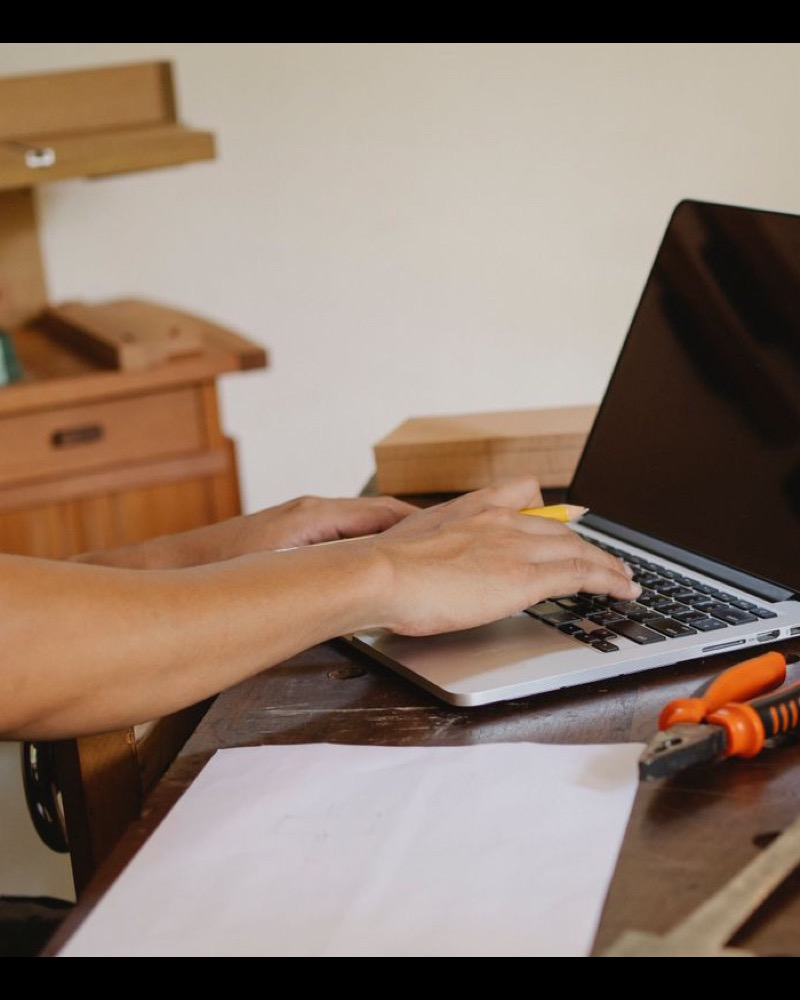
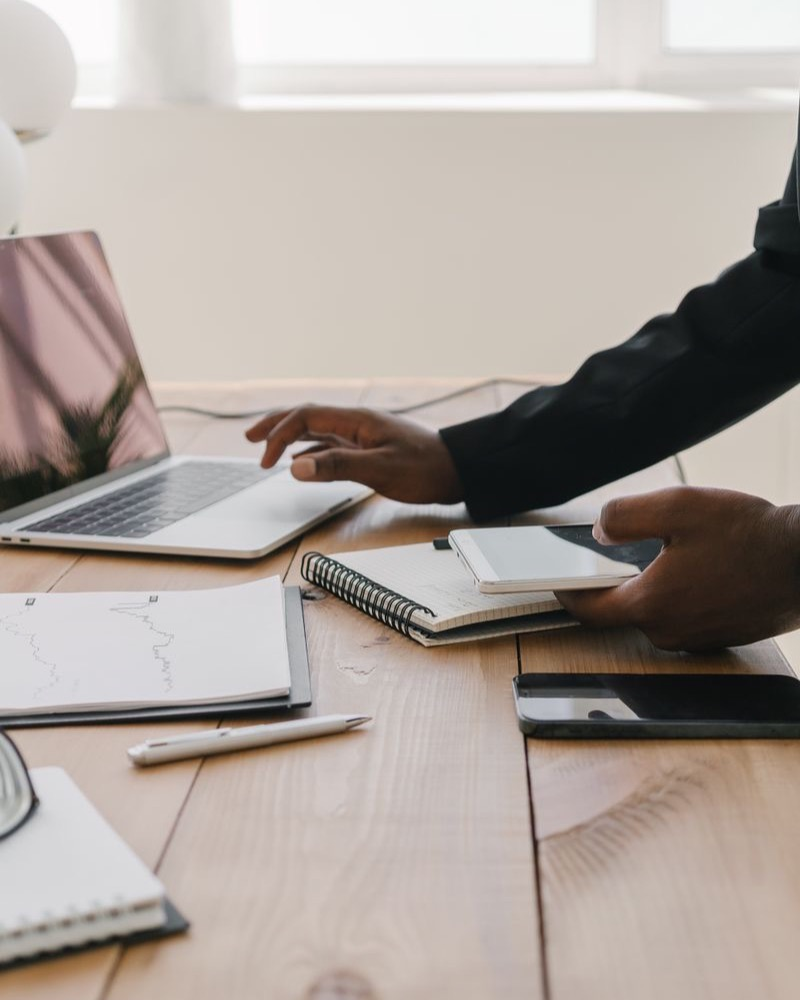
Rework page images: no faces, smaller complementary images
- Odoo: the full-width strip becomes a smaller image beside the
  "Ein System" text (new .textmedia layout); image swapped to the
  craftsman-at-laptop shot
- Homepage values block now shows the desk-with-reports shot
  (swapped with Odoo per request)
- Digitalisierung hero no longer shows a person: replaced with the
  code-editor-and-coffee image; the full-width code strip is removed
All remaining images avoid identifiable faces. D&A hero unchanged.

diff --git a/web/templates/v2/odoo.html b/web/templates/v2/odoo.html
@@ -28,17 +28,14 @@
   </div>
 </section>
 
+{# Text-Bild-Block: Bild ergänzt den Text (lizenzfrei, Pexels: odoo-atmo.jpg = pexels.com/photo/7679173) #}
 <section class="sec">
-  <div class="wrap split reveal">
-    <h2>{% trans "Ein System für den ganzen Betrieb" %}</h2>
-    <p>{% blocktrans trimmed %}Ich führe bei Ihnen Odoo ein – die Geschäftssoftware, mit der weltweit Millionen von Betrieben arbeiten, vom Zweipersonen-Atelier bis zum Produktionsbetrieb. Verkauf, Einkauf, Lager, Projekte, Rechnungen und Buchhaltung greifen ineinander: einmal erfassen, überall verfügbar.{% endblocktrans %}</p>
-  </div>
-</section>
-
-{# Atmosphärebild (lizenzfrei, Pexels): odoo-atmo.jpg = pexels.com/photo/7679173 #}
-<section class="sec">
-  <div class="wrap">
-    <figure class="photostrip reveal"><img src="{% static 'img/atmo/odoo-atmo.jpg' %}" width="1600" height="800" loading="lazy" decoding="async" alt="{% trans 'Arbeiten am Schreibtisch mit Laptop, Notizen und Auswertungen' %}"></figure>
+  <div class="wrap textmedia reveal">
+    <div class="tm-text">
+      <h2>{% trans "Ein System für den ganzen Betrieb" %}</h2>
+      <p>{% blocktrans trimmed %}Ich führe bei Ihnen Odoo ein – die Geschäftssoftware, mit der weltweit Millionen von Betrieben arbeiten, vom Zweipersonen-Atelier bis zum Produktionsbetrieb. Verkauf, Einkauf, Lager, Projekte, Rechnungen und Buchhaltung greifen ineinander: einmal erfassen, überall verfügbar.{% endblocktrans %}</p>
+    </div>
+    <figure class="tm-photo"><img src="{% static 'img/atmo/odoo-atmo.jpg' %}" width="1200" height="800" loading="lazy" decoding="async" alt="{% trans 'Handwerker arbeitet am Laptop in seiner Werkstatt' %}"></figure>
   </div>
 </section>
 

diff --git a/web/static/css/v2.css b/web/static/css/v2.css
@@ -241,6 +241,11 @@ a:hover { color: #0A0A0A; }
 .sec h2 { font-size: 46px; line-height: 1.1; letter-spacing: -0.035em; max-width: 720px; }
 .idx { font-size: 13px; font-weight: 600; letter-spacing: .08em; color: #6B6B6B; font-variant-numeric: tabular-nums; }
 .split { display: grid; grid-template-columns: minmax(0, .85fr) minmax(0, 1.15fr); gap: 72px; align-items: start; }
+.textmedia { display: grid; grid-template-columns: minmax(0, 1fr) minmax(0, 1fr); gap: 56px; align-items: center; }
+.textmedia .tm-text h2 { margin-bottom: 20px; }
+.textmedia .tm-text p { margin: 0; color: #4F4F4F; font-size: 18px; }
+.textmedia .tm-photo { margin: 0; border-radius: 24px; overflow: hidden; aspect-ratio: 3 / 2; background: #F5F5F2; }
+.textmedia .tm-photo img { width: 100%; height: 100%; object-fit: cover; display: block; }
 .sec .split p, .sec > .wrap > p { margin: 0; color: #4F4F4F; font-size: 18px; }
 
 /* ---------- Angebots-Karten ---------- */
@@ -562,7 +567,7 @@ a:hover { color: #0A0A0A; }
   .sec h2 { font-size: 34px; }
   .sec-head { flex-direction: column; align-items: flex-start; margin-bottom: 40px; gap: 12px; }
   .cards { grid-template-columns: minmax(0, 1fr); }
-  .split, .about { grid-template-columns: minmax(0, 1fr); gap: 40px; }
+  .split, .about, .textmedia { grid-template-columns: minmax(0, 1fr); gap: 40px; }
   .gets { grid-template-columns: minmax(0, 1fr); }
   .steps { grid-template-columns: minmax(0, 1fr); gap: 40px; padding-top: 0; padding-left: 44px; }
   .track { top: 8px; bottom: 8px; left: 7px; right: auto; width: 2px; height: auto; }

diff --git a/web/templates/v2/digitalisierung.html b/web/templates/v2/digitalisierung.html
@@ -15,15 +15,8 @@
       <p>{% blocktrans trimmed %}Der heikelste Moment jeder Digitalisierung ist der Umzug: Kundendaten, Artikel, Belege und Historie stecken im alten System – und sollen vollständig und korrekt im neuen ankommen. Genau das ist meine Kernkompetenz.{% endblocktrans %}</p>
     </div>
     <div class="hero-media">
-      <img src="{% static 'img/photos/dig-hero.jpg' %}" width="1200" height="800" decoding="async" alt="{% trans 'Betriebsinhaber arbeitet konzentriert am Laptop in seiner Werkstatt' %}">
+      <img src="{% static 'img/photos/dig-hero.jpg' %}" width="1200" height="800" decoding="async" alt="{% trans 'Laptop mit Code-Editor und Kaffee im warmen Licht' %}">
     </div>
-  </div>
-</section>
-
-{# Atmosphärebild (lizenzfrei, Pexels): dig-atmo.jpg = pexels.com/photo/34803969 #}
-<section class="sec">
-  <div class="wrap">
-    <figure class="photostrip reveal"><img src="{% static 'img/atmo/dig-atmo.jpg' %}" width="1600" height="800" loading="lazy" decoding="async" alt="{% trans 'Laptop mit Code-Editor und Kaffee im warmen Licht' %}"></figure>
   </div>
 </section>
 

diff --git a/web/templates/v2/home.html b/web/templates/v2/home.html
@@ -104,7 +104,7 @@
 <section class="sec">
   <div class="wrap">
     <div class="trust has-photo reveal">
-      <figure class="tphoto"><img src="{% static 'img/photos/home-trust.jpg' %}" width="800" height="1000" loading="lazy" decoding="async" alt="{% trans 'Handwerker arbeitet am Laptop in seiner Werkstatt' %}"></figure>
+      <figure class="tphoto"><img src="{% static 'img/photos/home-trust.jpg' %}" width="800" height="1000" loading="lazy" decoding="async" alt="{% trans 'Arbeiten am Schreibtisch mit Laptop, Notizen und Auswertungen' %}"></figure>
       <div>
         <h2>{% trans "Wofür Datalization steht" %}</h2>
         <p class="lead"><strong>{% trans "Ein System, ein Ansprechpartner, ein klarer Preis." %}</strong> {% blocktrans trimmed %}Datalization bringt die Software kleiner Betriebe in Ordnung – persönlich umgesetzt von der Person, die Ihre Lösung auch baut, zum Festpreis statt mit Überraschungen.{% endblocktrans %}</p>
